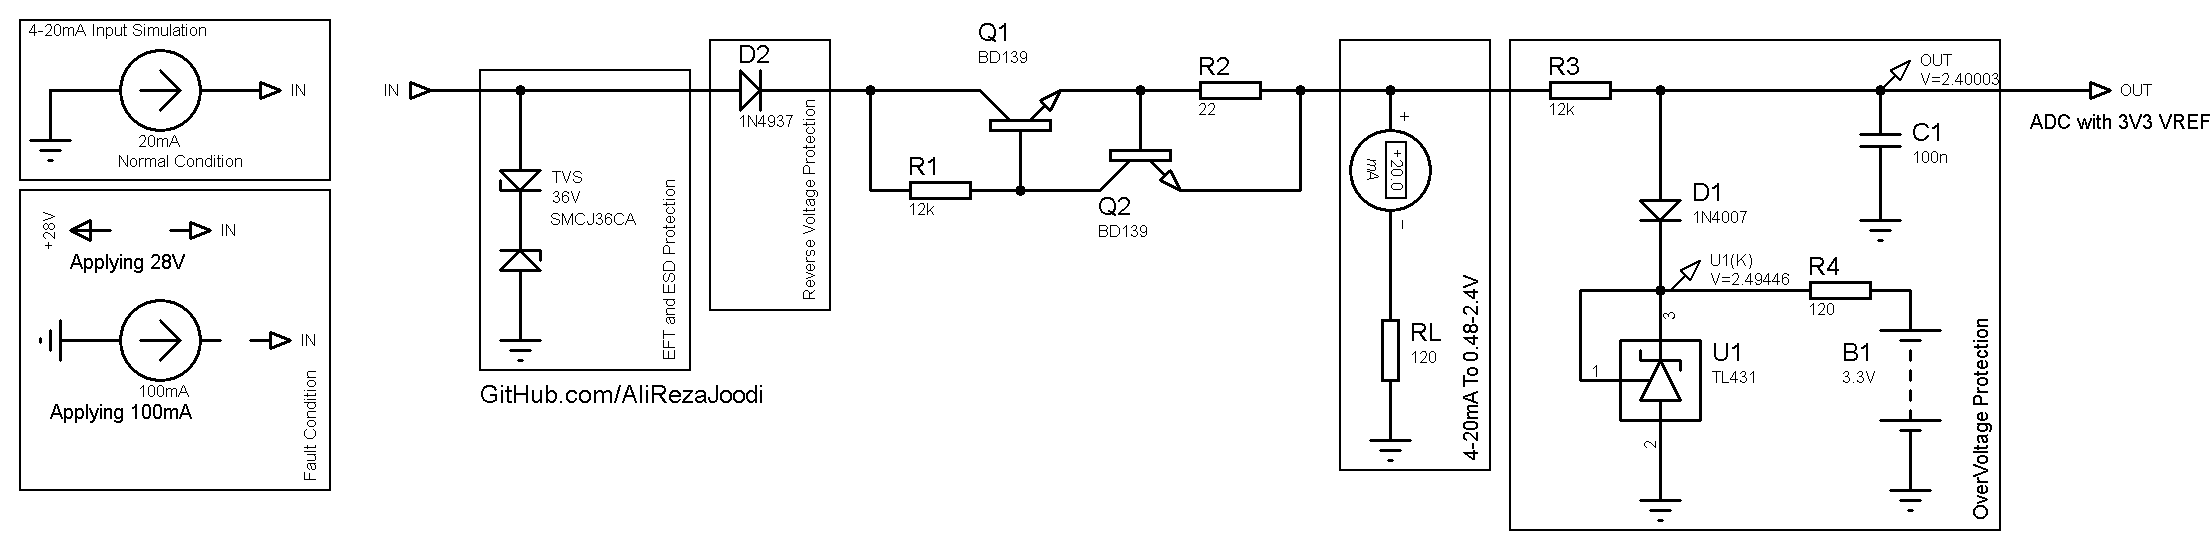
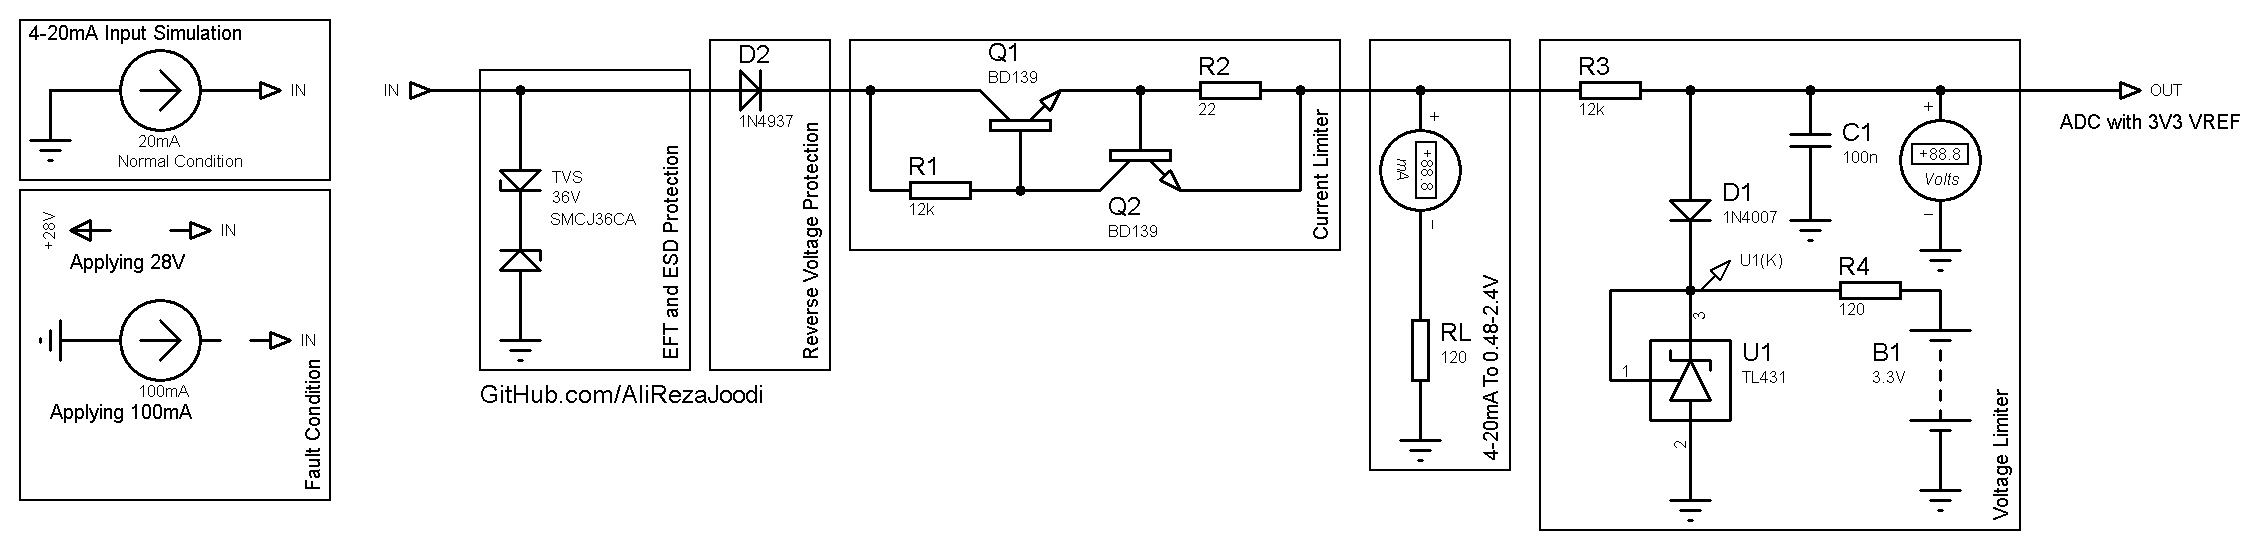
Update

diff --git a/Protective_4-20mA-Input/README.md b/Protective_4-20mA-Input/README.md
@@ -7,13 +7,6 @@ It has included:
 ### Simulate: v1.0
 ![](Simulate/v1.0.png)
 
-- Diode 1N4937 withstands 600V reverse voltage.
-- Transistor NPN BD139 withstands 80V of VCE and VCB.
-- TL431 is a voltage reference with around 2.5V with this configuration. 
-
-About transistors role:
-R1 biases Q1 such that it conducts. If the current through R2 is too large, Q2 is biased such that it also begins conducting, and thus begins to drain away some of the current going into the base of Q1, which starts to conducts less. In other words, this circuit limits the current going through it to approx 0.7V / 22ohm (Vbe(sat)_Q2 / R2) for the cost of the voltage drop across R2 + VCE_Q1
-
 Source Link: [Jeferson Pehls](https://www.linkedin.com/feed/update/urn:li:activity:7042709425547001856/)
 
 My GitHub: [GitHub.com/AliRezaJoodi](https://github.com/AliRezaJoodi)  
